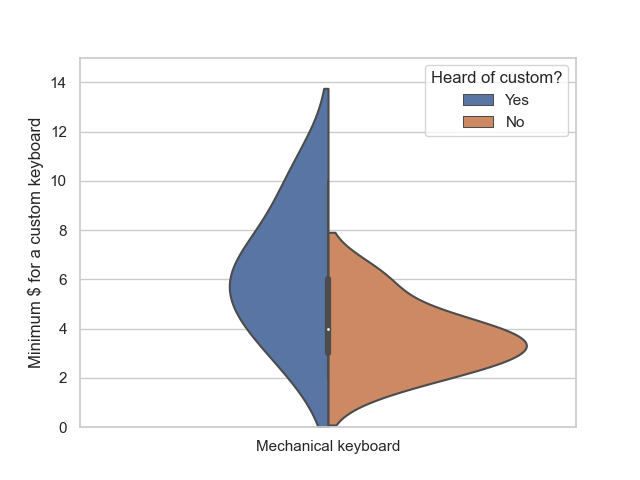
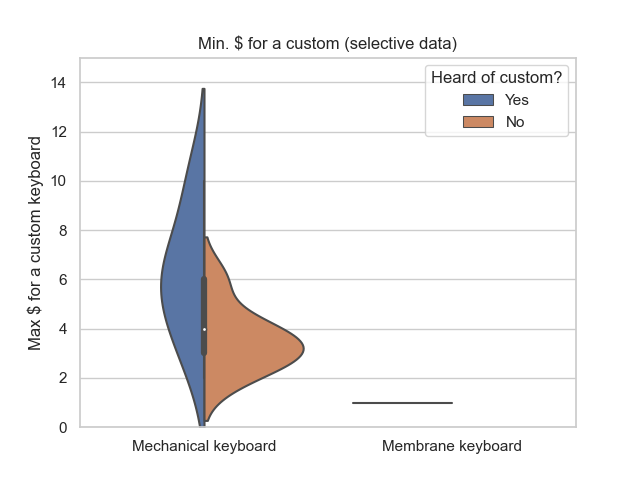
data sheet

Changed region(s): [[0.1875, 0.1875, 0.8438, 0.9375], [0.3125, 0.0625, 0.7188, 0.125], [0.0312, 0.25, 0.0625, 0.7812]]

diff --git a/main.py b/main.py
@@ -3,8 +3,8 @@ import matplotlib.pyplot as plt
 import seaborn as sns
 sns.set(style = "whitegrid")
 
-keydf = pd.read_excel('C:\\Users\\Justin\\PycharmProjects\\keyboard\\keyb1.xlsx')
-keydf2 = pd.read_excel('C:\\Users\\Justin\\Documents\\keyb2.xlsx')
+keydf = pd.read_excel('C:\\Users\\Justin\\PycharmProjects\\keyb\\keyb1.xlsx')
+keydf2 = pd.read_excel('C:\\Users\\Justin\\PycharmProjects\\keyb\\keyb2.xlsx')
 
 print(keydf.iat[0,9])
 
@@ -39,41 +39,91 @@ def calculate_weights(lst):
     return [reasons.count('Gaming'), reasons.count('Quality'),
             reasons.count('Productivity'), reasons.count('Aesthetics'), reasons.count('Price')]
 
+def weights(lst):
+    global keydf
+    game = 0
+    prod = 0
+    notprod = 0
+    for i in lst:
+        prod+=keydf.iat[int(i), 4]
+        game+=keydf.iat[int(i), 5]
+        notprod+=keydf.iat[int(i), 6]
+    return game, prod, notprod
+
+#Pie chart weighing gaming, productivity, and non-productive tasks - gaming
+
+#Tactile
+labels = 'Productive', 'Gaming', 'Unproductive'
+sizes = weights(tactile)
+
+fig1, ax1 = plt.subplots()
+ax1.pie(sizes, labels=labels, autopct = '%1.1f%%', startangle = 90)
+ax1.axis('equal')
+plt.title("Time Spent (Tactile Users)")
+plt.savefig('tactileweights.png')
+plt.close()
+
+#Linear
+labels = 'Productive', 'Gaming', 'Unproductive'
+sizes = weights(linear)
+
+fig1, ax1 = plt.subplots()
+ax1.pie(sizes, labels=labels, autopct = '%1.1f%%', startangle = 90)
+ax1.axis('equal')
+plt.title("Time Spent (Linear Users)")
+plt.savefig('linearweights.png')
+plt.close()
+
+#Clicky
+labels = 'Productive', 'Gaming', 'Unproductive'
+sizes = weights(clicky)
+
+fig1, ax1 = plt.subplots()
+ax1.pie(sizes, labels=labels, autopct = '%1.1f%%', startangle = 90)
+ax1.axis('equal')
+plt.title("Time Spent (Clicky Users)")
+plt.savefig('clickyweights.png')
+plt.close()
 
 #Min and Max plots with both people who are in and not in, as well as updated versus with previous
-#Both Together
-f, ax = plt.subplots()
-sns.violinplot(x="Keyboard", y="Min", hue="Heard?", data=keydf, split=True)
-ax.set(xlabel="Type of Keyboard", ylabel="Minimum $ for a custom keyboard")
-plt.ylim(0, 5)
-plt.legend(title = "Heard of custom?", loc='upper right')
-plt.savefig("minplot.png")
-plt.close()
+# #Both Together
+# f, ax = plt.subplots()
+# sns.violinplot(x="Keyboard", y="Min", hue="Heard?", data=keydf, split=True)
+# ax.set(xlabel="Type of Keyboard", ylabel="Minimum $ for a custom keyboard")
+# plt.ylim(0, 5)
+# plt.legend(title = "Heard of custom?", loc='upper right')
+# plt.title("Min. $ for a custom (all data)")
+# plt.savefig("minplot.png")
+# plt.close()
+#
+# f, ax = plt.subplots()
+# sns.violinplot(x="Keyboard", y="Max", hue="Heard?", data=keydf, split=True)
+# ax.set(xlabel="Type of Keyboard", ylabel="Maximum $ for a custom keyboard")
+# plt.ylim(0, 15)
+# plt.legend(title = "Heard of custom?", loc='upper right')
+# plt.title("Max. $ for a custom (all data)")
+# plt.savefig("maxplot.png")
+# plt.close()
 
-f, ax = plt.subplots()
-sns.violinplot(x="Keyboard", y="Max", hue="Heard?", data=keydf, split=True)
-ax.set(xlabel="Type of Keyboard", ylabel="Minimum $ for a custom keyboard")
-plt.ylim(0, 15)
-plt.legend(title = "Heard of custom?", loc='upper right')
-plt.savefig("maxplot.png")
-plt.close()
+# # Both Separately
+# f, ax = plt.subplots()
+# sns.violinplot(x="Keyboard", y="Min", hue="Heard?", data=keydf2, split=True)
+# ax.set(xlabel="", ylabel="Minimum $ for a custom keyboard")
+# plt.ylim(0, 5)
+# plt.legend(title = "Heard of custom?", loc='upper right')
+# plt.title("Min. $ for a custom (selective data)")
+# plt.savefig("minplot2.png")
+# plt.close()
+#
+# f, ax = plt.subplots()
+# sns.violinplot(x="Keyboard", y="Max", hue="Heard?", data=keydf2, split=True)
+# ax.set(xlabel="", ylabel="Max $ for a custom keyboard")
+# plt.ylim(0, 15)
+# plt.legend(title = "Heard of custom?", loc='upper right')
+# plt.title("Min. $ for a custom (selective data)")
+# plt.savefig("maxplot2.png")
+# plt.close()
 
-#Both Separately
-f, ax = plt.subplots()
-sns.violinplot(x="Keyboard", y="Min", hue="Heard?", data=keydf2, split=True)
-ax.set(xlabel="", ylabel="Minimum $ for a custom keyboard")
-plt.ylim(0, 5)
-plt.legend(title = "Heard of custom?", loc='upper right')
-plt.savefig("minplot2.png")
-plt.close()
-
-f, ax = plt.subplots()
-sns.violinplot(x="Keyboard", y="Max", hue="Heard?", data=keydf2, split=True)
-ax.set(xlabel="", ylabel="Minimum $ for a custom keyboard")
-plt.ylim(0, 15)
-plt.legend(title = "Heard of custom?", loc='upper right')
-plt.savefig("maxplot2.png")
-plt.close()
 # f, ax = plt.subplots()
 # #Minimum price plot
 # sns.violinplot(x = "Switches", y = "Min", data=keydf)
